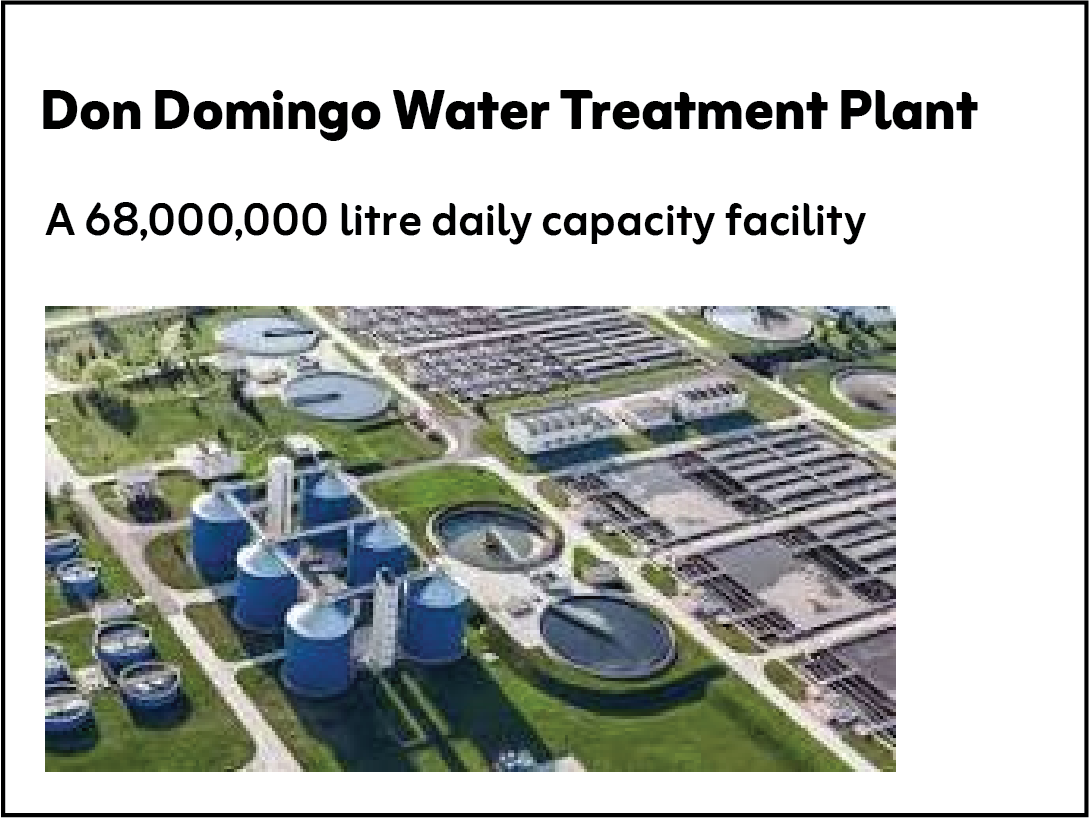
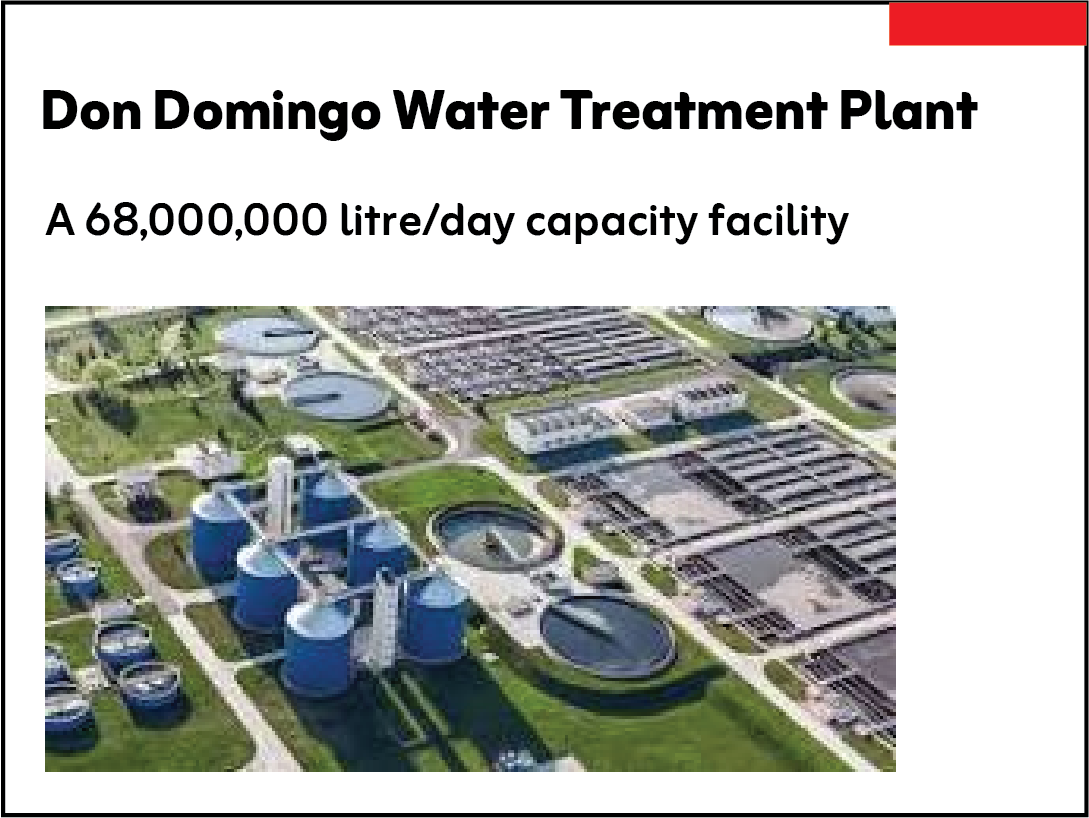
Add files via upload

Changed region(s): [[0.3747, 0.2445, 0.8118, 0.3056], [0.8118, 0.0, 0.9991, 0.0611]]

diff --git a/index.html b/index.html
@@ -56,17 +56,18 @@
 									Each project represents a step in my journey 
 									showcasing my ability to turn complex information into clear, strategic solutions.</br></br>
 									I encourage you to explore these projects and see firsthand how I’ve contributed to 
-									successful outcomes across various initiatives.
+									successful outcomes across various initiatives.</br></br>
+									Markings:    &nbsp; &nbsp; <img src="images/red.png" alt="" /> - Financial Models | <img src="images/org.png" alt="" /> - Power BI Dashboards | <img src="images/grn.png" alt="" /> - Excel Dashboards 
 								</p>
 								<section>
 									<div class="row">
 										<div class="col-4 col-6-medium col-12-small">
 											<a style="text-decoration:none" href="https://docs.google.com/spreadsheets/d/1ccBXTXe1nEL7FDlQ12vAZwX6f2q3n_7c/edit?usp=sharing&ouid=116856053826147939688&rtpof=true&sd=true" class="image fit" target="_blank"><img src="images/ttp.png" alt=""><br>
-											<p style="text-align:justify;">A financial model for a Truck & Trailer Park. This model was created to assess the feasibility of developing the park to host trucks and trailer as they transit across the nation.</p></a>
+											<p style="text-align:justify;">A financial model for a Truck & Trailer Park. This model was created to assess the feasibility of developing the park to host vehicles as they transit across the nation. The project was to be developed accross 16 locations and this model was used to access the viability across these locations taking into consideration Revenues (driven by traffic of vehicles and toll fee), proposed capital expenditure (CAPEX) and operating expennse (OPEX). The Capital structure (Debt - Equity Ratio) was also determined. A combination of the  NPV, IRR and DSCR was used to determine the viability of the project.</p></a>
 										</div>
 										<div class="col-4 col-6-medium col-12-small">
 											<a style="text-decoration:none" href="https://docs.google.com/spreadsheets/d/1OokkK6HIgQZ7FKdLUKbcq0-p_jB_q2sB/edit?usp=sharing&ouid=116856053826147939688&rtpof=true&sd=true" class="image fit" target="_blank"><img src="images/ddm.png" alt=""><br>
-												<p style="text-align:justify;">An operational & financial model for water .... which was to be developed in 3 phases with total capacity of 68M l/d.</p></a>
+												<p style="text-align:justify;">An operational & financial model for a Water Corporation. The facility had a total capacity of 68M l/d and a distribution network covering over 100km to supply water to a population of c. 1M. This facility was to be developed in 3 phases which was modelled allowing to simulate potential lag times between the phases. Some metrics the model outputs are the Debt - Equity Ratio, DSCR, CAPEX, OPEX.</p></a>
 										</div>										
 										<div class="col-4 col-6-medium col-12-small">
 											<a style="text-decoration:none" href="https://1drv.ms/x/c/85d4546909b3b76f/IQM7f9YbssrxRpwo3utCTBMLAcbT7LbhxPjTxCqPP1pPU58" width="452" height="346" frameborder="0" scrolling="no" class="image fit" target="_blank"><img src="images/dsh1.png" alt=""><br>
@@ -82,11 +83,11 @@
 										</div>
 										<div class="col-4 col-6-medium col-12-small">
 											<a style="text-decoration:none" href="https://1drv.ms/b/c/85d4546909b3b76f/IQOIs2HyHPAtQYUFh7_gZWx1AUdzwdoZfQL74K3SsBjvzEY" width="452" height="346" frameborder="0" scrolling="no" class="image fit" target="_blank"><img src="images/dsh4.png" alt=""><br>
-												<p style="text-align:justify;">A dashboard with different charts showing sales trend over time, sales results by cartegory and manager and a map showing resuls by region. This dashboard was developed using Microsoft excel.</p></a>
+												<p style="text-align:justify;">A Power BI dashboard shouwing how an organization performed withe thier budgets. The display shows budget vs Actual figures across departments, regions and cost elements.</p></a>
 										</div>
 										<div class="col-4 col-6-medium col-12-small">
-											<a style="text-decoration:none" href="https://1drv.ms/b/c/85d4546909b3b76f/IQPtgNImcUrvTYbpAZE6Q-1YAfXA6VdPCgfoVSavaMl1kEA" width="452" height="346" frameborder="0" scrolling="no" class="image fit" target="_blank"><img src="images/dsh5.png" alt=""><br>
-												<p style="text-align:justify;">A dashboard with different charts showing sales trend over time, sales results by cartegory and manager and a map showing resuls by region. This dashboard was developed using Microsoft excel.</p></a>
+											<a style="text-decoration:none" href="https://1drv.ms/b/c/85d4546909b3b76f/IQPaB3yOWcSdSpNgOiMzL0BXASmdlyTRj6ceeObm_fiqxjg" width="452" height="346" frameborder="0" scrolling="no" class="image fit" target="_blank"><img src="images/dsh5.png" alt=""><br>
+												<p style="text-align:justify;">These Financial Statements (Income Statment & Balance Sheet) were created for a retail house using Power BI. The data used was hosted in an SQL database which was consolidated into a view using a query and the view subsequently loaded into Power BI. The Dimension Tables and Facts table were created from the loaded data by referencing the loaded data in Power Query. These tables were then used to create the Data Model. A series of measures were created to calculate subtotals, cummulative amounts, etc needed to develop the Statements.</p></a>
 										</div>
 										<!--
 										<div class="col-4 col-6-medium col-12-small">
